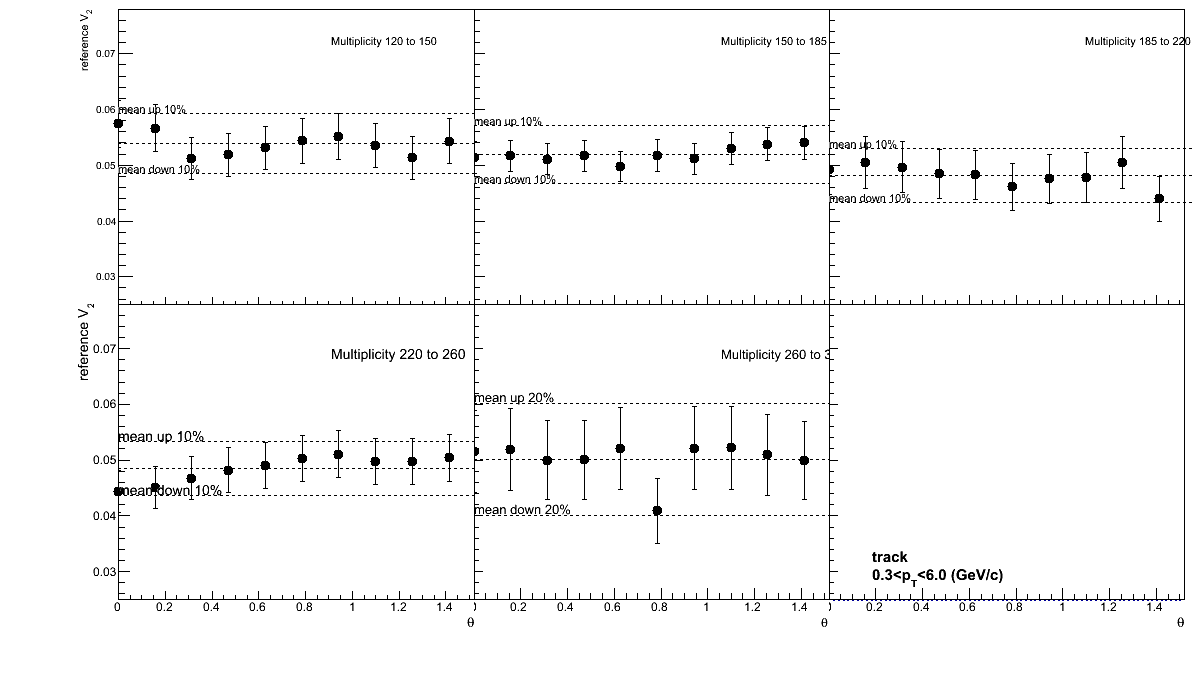
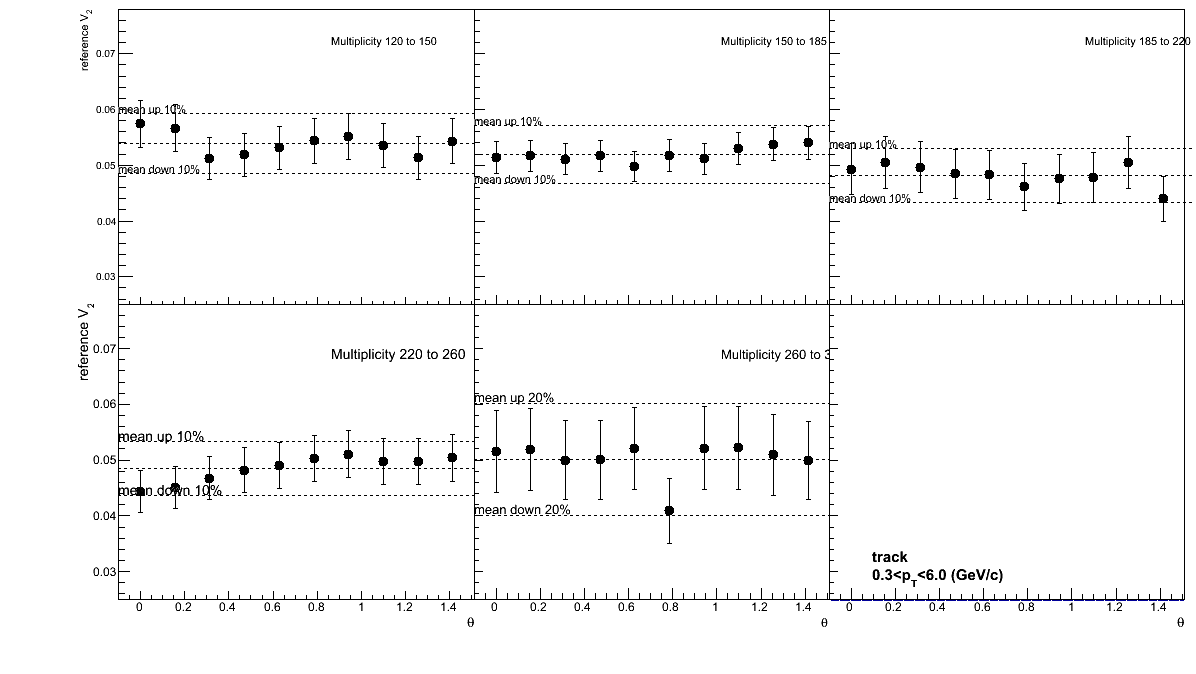
error bar for V2vstheta

diff --git a/flow/LYZ/v2/theta15/tracknormcpt03to6/plotV2vstheta.C b/flow/LYZ/v2/theta15/tracknormcpt03to6/plotV2vstheta.C
@@ -3,7 +3,7 @@
 
 void plotV2vstheta(){
 	TFile *f;
-        int isSum=1;
+        int isSum=0;
         const int ntotbin=5;
         const int trkpointmin[ntotbin] = {120,150,185,220,260};
         const int trkpointmax[ntotbin] = {150,185,220,260,300};
@@ -15,16 +15,16 @@ void plotV2vstheta(){
         gStyle->SetOptStat(0);
         gStyle->SetOptTitle(0);
         gStyle->SetErrorX(0);
-        TH1D *hFrame = new TH1D("","",100,0,2);
+        TH1D *hFrame = new TH1D("","",210,-0.1,2);
         hFrame->SetTitle("");
         hFrame->GetXaxis()->SetTitle("#theta");
         hFrame->GetYaxis()->SetTitle("reference V_{2}");
         hFrame->GetYaxis()->SetTitleOffset(1.1);
         hFrame->GetXaxis()->SetTitleSize(0.04);
         hFrame->GetYaxis()->SetTitleSize(0.04);
-        hFrame->GetXaxis()->SetRangeUser(0,1.5);
-        hFrame->SetMinimum(0.023);
-        hFrame->SetMaximum(0.070);
+        hFrame->GetXaxis()->SetRangeUser(-0.1,1.5);
+        hFrame->SetMinimum(0.025);
+        hFrame->SetMaximum(0.078);
         for(int trkbin=0;trkbin<ntotbin; trkbin++){
 	if(isSum==0){
 	    f = TFile::Open(Form("M%d%d/mergedV_Prod.root",trkpointmax[trkbin],trkpointmin[trkbin]));
@@ -34,9 +34,11 @@ void plotV2vstheta(){
 	}
 	TVectorD* vecVmean = (TVectorD*)f->Get(Form("D_%d/Vmean",xbin));
         TVectorD* vecV = (TVectorD*)f->Get(Form("D_%d/D_0/V",xbin));
+        TVectorD* vecdeltaV = (TVectorD*)f->Get(Form("D_%d/D_0/deltaV",xbin));
 
         double Vmean = (*vecVmean)[0];
         double *V = vecV->GetMatrixArray();
+        double *deltaV = vecdeltaV->GetMatrixArray();
         double theta[ntheta];
         for(int itheta=0;itheta<ntheta;itheta++){
             theta[itheta]=itheta*TMath::Pi()/ntheta/nn;
@@ -45,14 +47,14 @@ void plotV2vstheta(){
         double maxper = (double)(maxper10+1)/10;
         c1->cd(trkbin+1);
         hFrame->Draw();
-        TGraph *gV2theta = new TGraph(ntheta,theta,V);
+        TGraphErrors *gV2theta = new TGraphErrors(ntheta,theta,V,0,deltaV);
         gV2theta->SetMarkerStyle(20);
         gV2theta->SetMarkerSize(1.3);
         gV2theta->SetMarkerColor(1);
         gV2theta->SetLineColor(1);
 	gV2theta->Draw("Psame");
-        TLine *lup = new TLine(gV2theta->GetXaxis()->GetXmin(),Vmean*(1+maxper), gV2theta->GetXaxis()->GetXmax(),Vmean*(1+maxper));
-        TLine *ldown = new TLine(gV2theta->GetXaxis()->GetXmin(),Vmean*(1-maxper), gV2theta->GetXaxis()->GetXmax(),Vmean*(1-maxper));
+        TLine *lup = new TLine(hFrame->GetXaxis()->GetXmin(),Vmean*(1+maxper), hFrame->GetXaxis()->GetXmax(),Vmean*(1+maxper));
+        TLine *ldown = new TLine(hFrame->GetXaxis()->GetXmin(),Vmean*(1-maxper), hFrame->GetXaxis()->GetXmax(),Vmean*(1-maxper));
         TLine *l = new TLine(hFrame->GetXaxis()->GetXmin(),Vmean, hFrame->GetXaxis()->GetXmax(),Vmean);
         l->SetLineStyle(2);
         lup->SetLineStyle(2);
@@ -65,8 +67,8 @@ void plotV2vstheta(){
         tl->SetTextFont(42);
         tl->SetTextSize(0.04);
  //     tl->SetBorderStyle(0);
-        tl->DrawLatex(0,Vmean*(1+maxper),Form("mean up %.f%%",maxper*100));
-        tl->DrawLatex(0,Vmean*(1-maxper),Form("mean down %.f%%",maxper*100));
+        tl->DrawLatex(-0.1,Vmean*(1+maxper),Form("mean up %.f%%",maxper*100));
+        tl->DrawLatex(-0.1,Vmean*(1-maxper),Form("mean down %.f%%",maxper*100));
         tl->SetNDC();
         tl->DrawLatex(0.7,0.85,Form("Multiplicity %d to %d",trkpointmin[trkbin],trkpointmax[trkbin]));
         l->Draw("same");

diff --git a/flow/LYZ/v2/theta10/tracknormcpt03to6/plotV2vstheta.C b/flow/LYZ/v2/theta10/tracknormcpt03to6/plotV2vstheta.C
@@ -15,14 +15,14 @@ void plotV2vstheta(){
         gStyle->SetOptStat(0);
         gStyle->SetOptTitle(0);
         gStyle->SetErrorX(0);
-        TH1D *hFrame = new TH1D("","",100,0,2);
+        TH1D *hFrame = new TH1D("","",210,-0.1,2);
         hFrame->SetTitle("");
         hFrame->GetXaxis()->SetTitle("#theta");
         hFrame->GetYaxis()->SetTitle("reference V_{2}");
         hFrame->GetYaxis()->SetTitleOffset(1.1);
         hFrame->GetXaxis()->SetTitleSize(0.04);
         hFrame->GetYaxis()->SetTitleSize(0.04);
-        hFrame->GetXaxis()->SetRangeUser(0,1.5);
+        hFrame->GetXaxis()->SetRangeUser(-0.1,1.5);
         hFrame->SetMinimum(0.025);
         hFrame->SetMaximum(0.078);
         for(int trkbin=0;trkbin<ntotbin; trkbin++){
@@ -53,8 +53,8 @@ void plotV2vstheta(){
         gV2theta->SetMarkerColor(1);
         gV2theta->SetLineColor(1);
 	gV2theta->Draw("Psame");
-        TLine *lup = new TLine(gV2theta->GetXaxis()->GetXmin(),Vmean*(1+maxper), gV2theta->GetXaxis()->GetXmax(),Vmean*(1+maxper));
-        TLine *ldown = new TLine(gV2theta->GetXaxis()->GetXmin(),Vmean*(1-maxper), gV2theta->GetXaxis()->GetXmax(),Vmean*(1-maxper));
+        TLine *lup = new TLine(hFrame->GetXaxis()->GetXmin(),Vmean*(1+maxper), hFrame->GetXaxis()->GetXmax(),Vmean*(1+maxper));
+        TLine *ldown = new TLine(hFrame->GetXaxis()->GetXmin(),Vmean*(1-maxper), hFrame->GetXaxis()->GetXmax(),Vmean*(1-maxper));
         TLine *l = new TLine(hFrame->GetXaxis()->GetXmin(),Vmean, hFrame->GetXaxis()->GetXmax(),Vmean);
         l->SetLineStyle(2);
         lup->SetLineStyle(2);
@@ -67,8 +67,8 @@ void plotV2vstheta(){
         tl->SetTextFont(42);
         tl->SetTextSize(0.04);
  //     tl->SetBorderStyle(0);
-        tl->DrawLatex(0,Vmean*(1+maxper),Form("mean up %.f%%",maxper*100));
-        tl->DrawLatex(0,Vmean*(1-maxper),Form("mean down %.f%%",maxper*100));
+        tl->DrawLatex(-0.1,Vmean*(1+maxper),Form("mean up %.f%%",maxper*100));
+        tl->DrawLatex(-0.1,Vmean*(1-maxper),Form("mean down %.f%%",maxper*100));
         tl->SetNDC();
         tl->DrawLatex(0.7,0.85,Form("Multiplicity %d to %d",trkpointmin[trkbin],trkpointmax[trkbin]));
         l->Draw("same");
